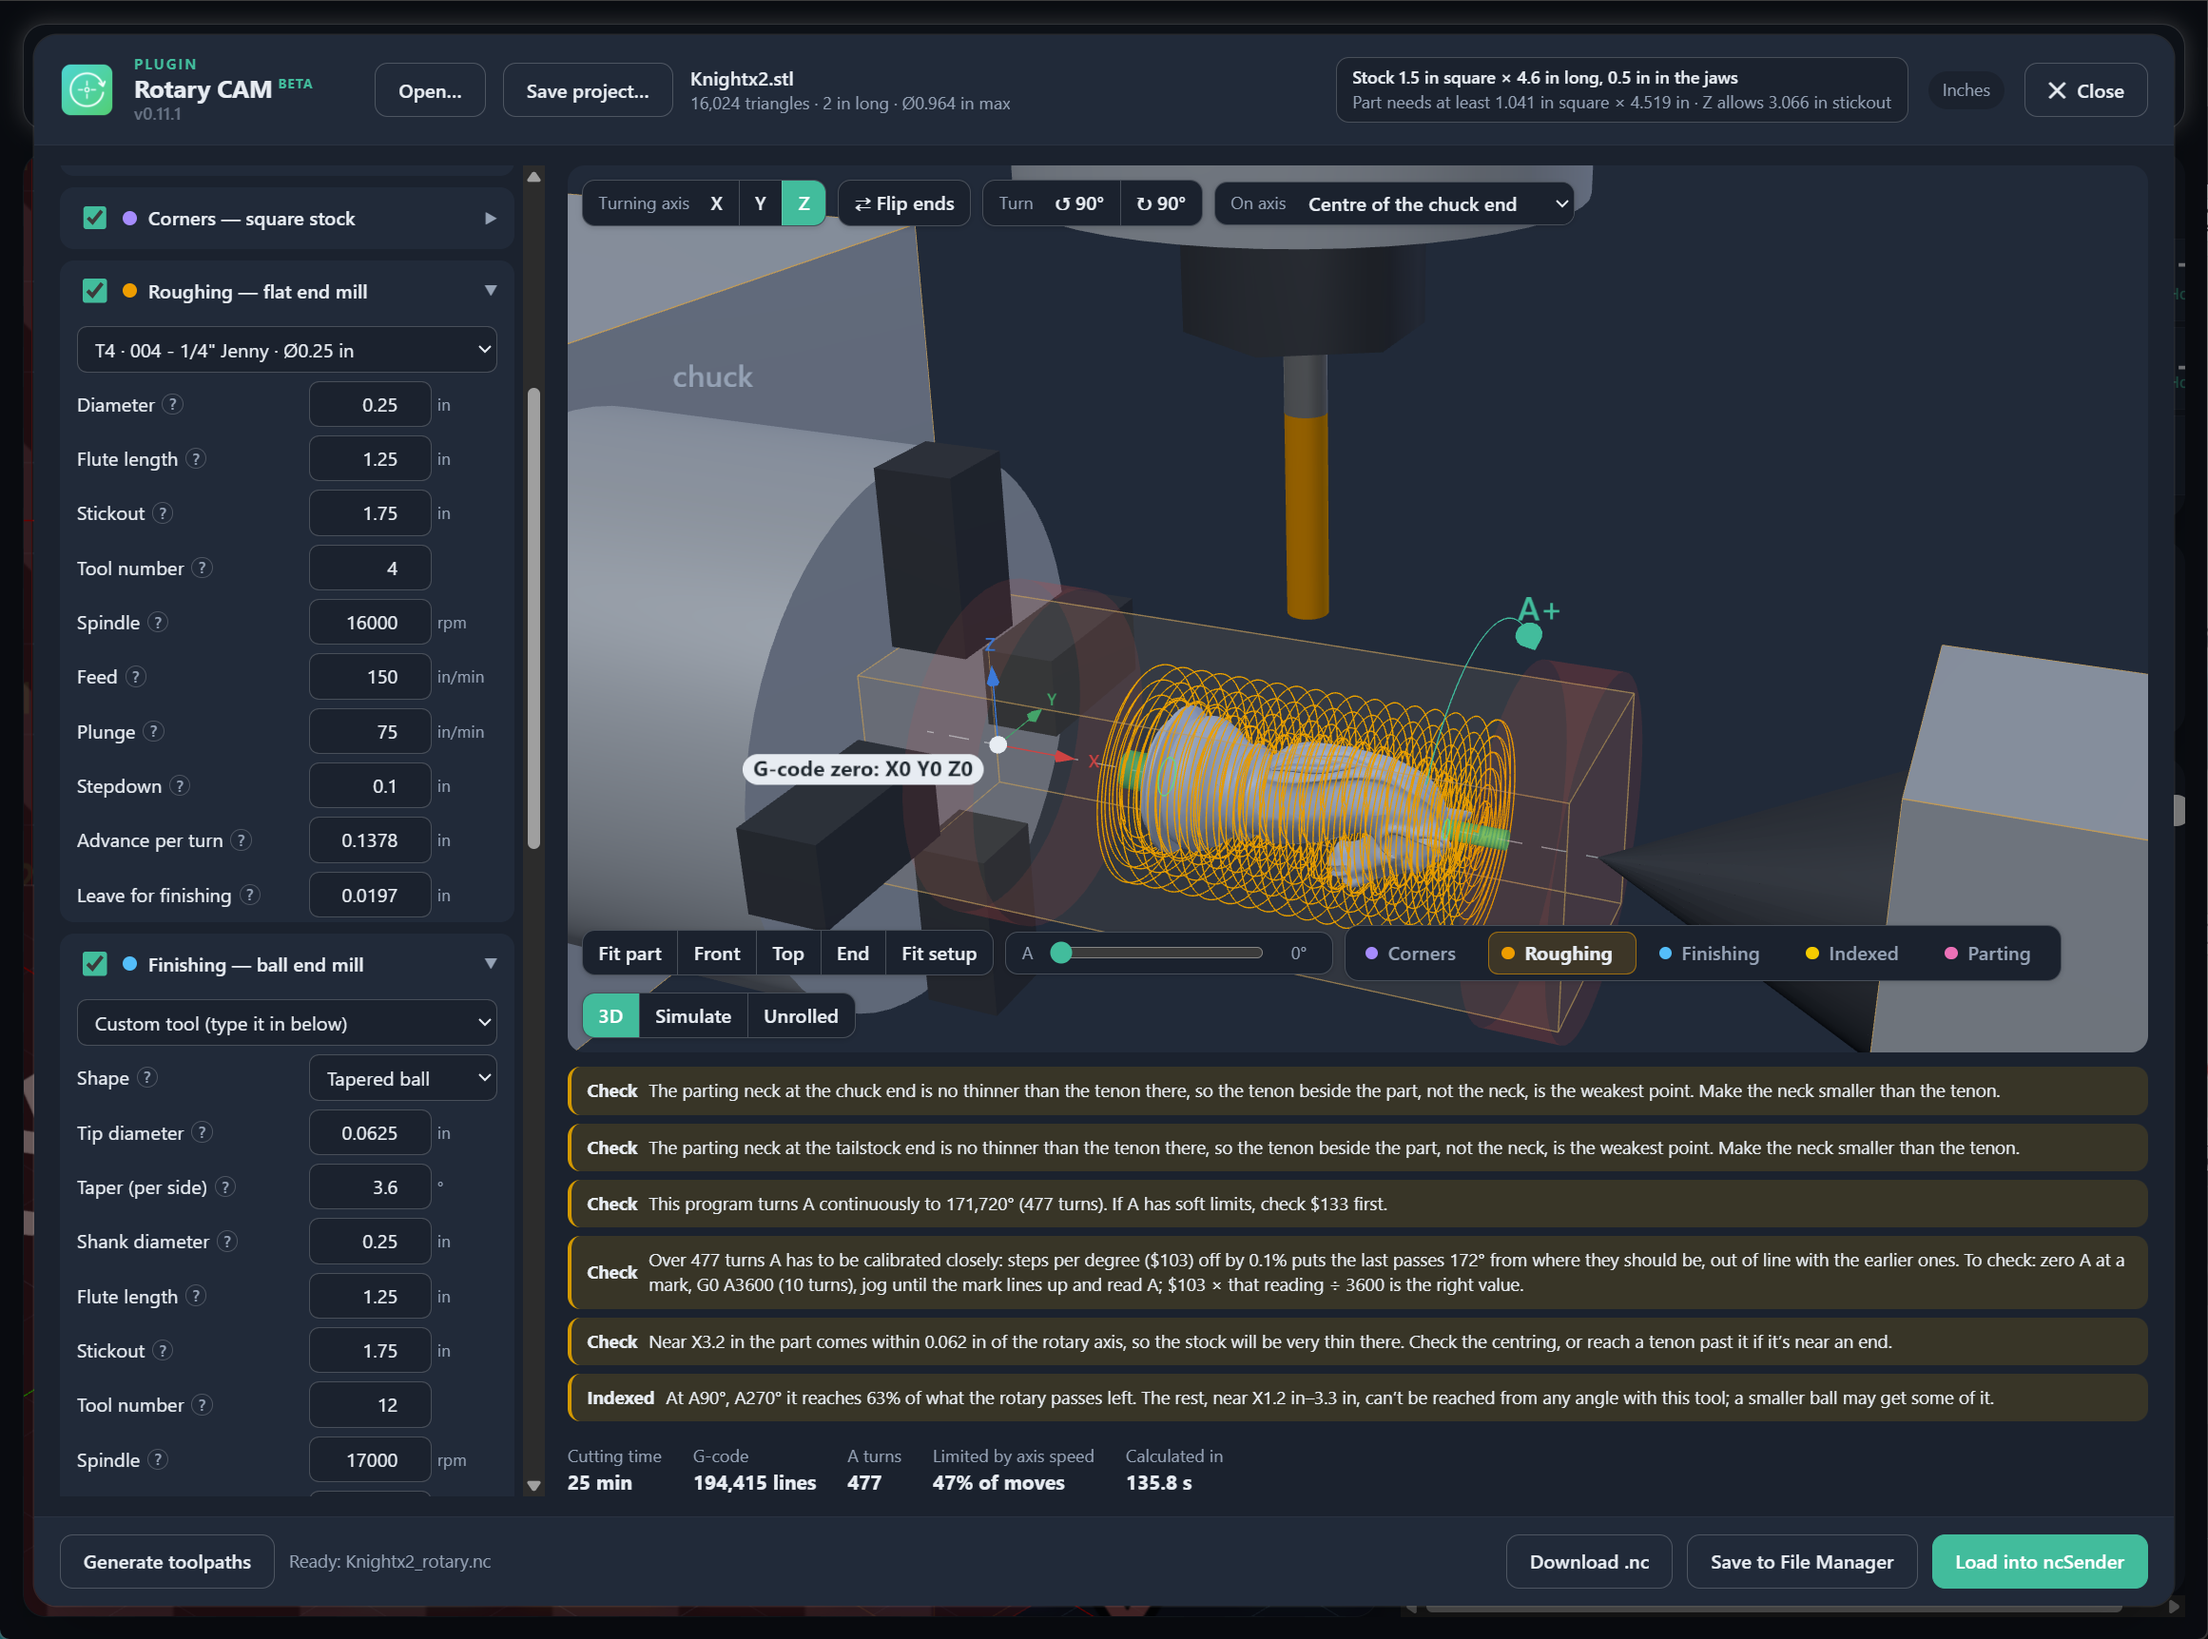
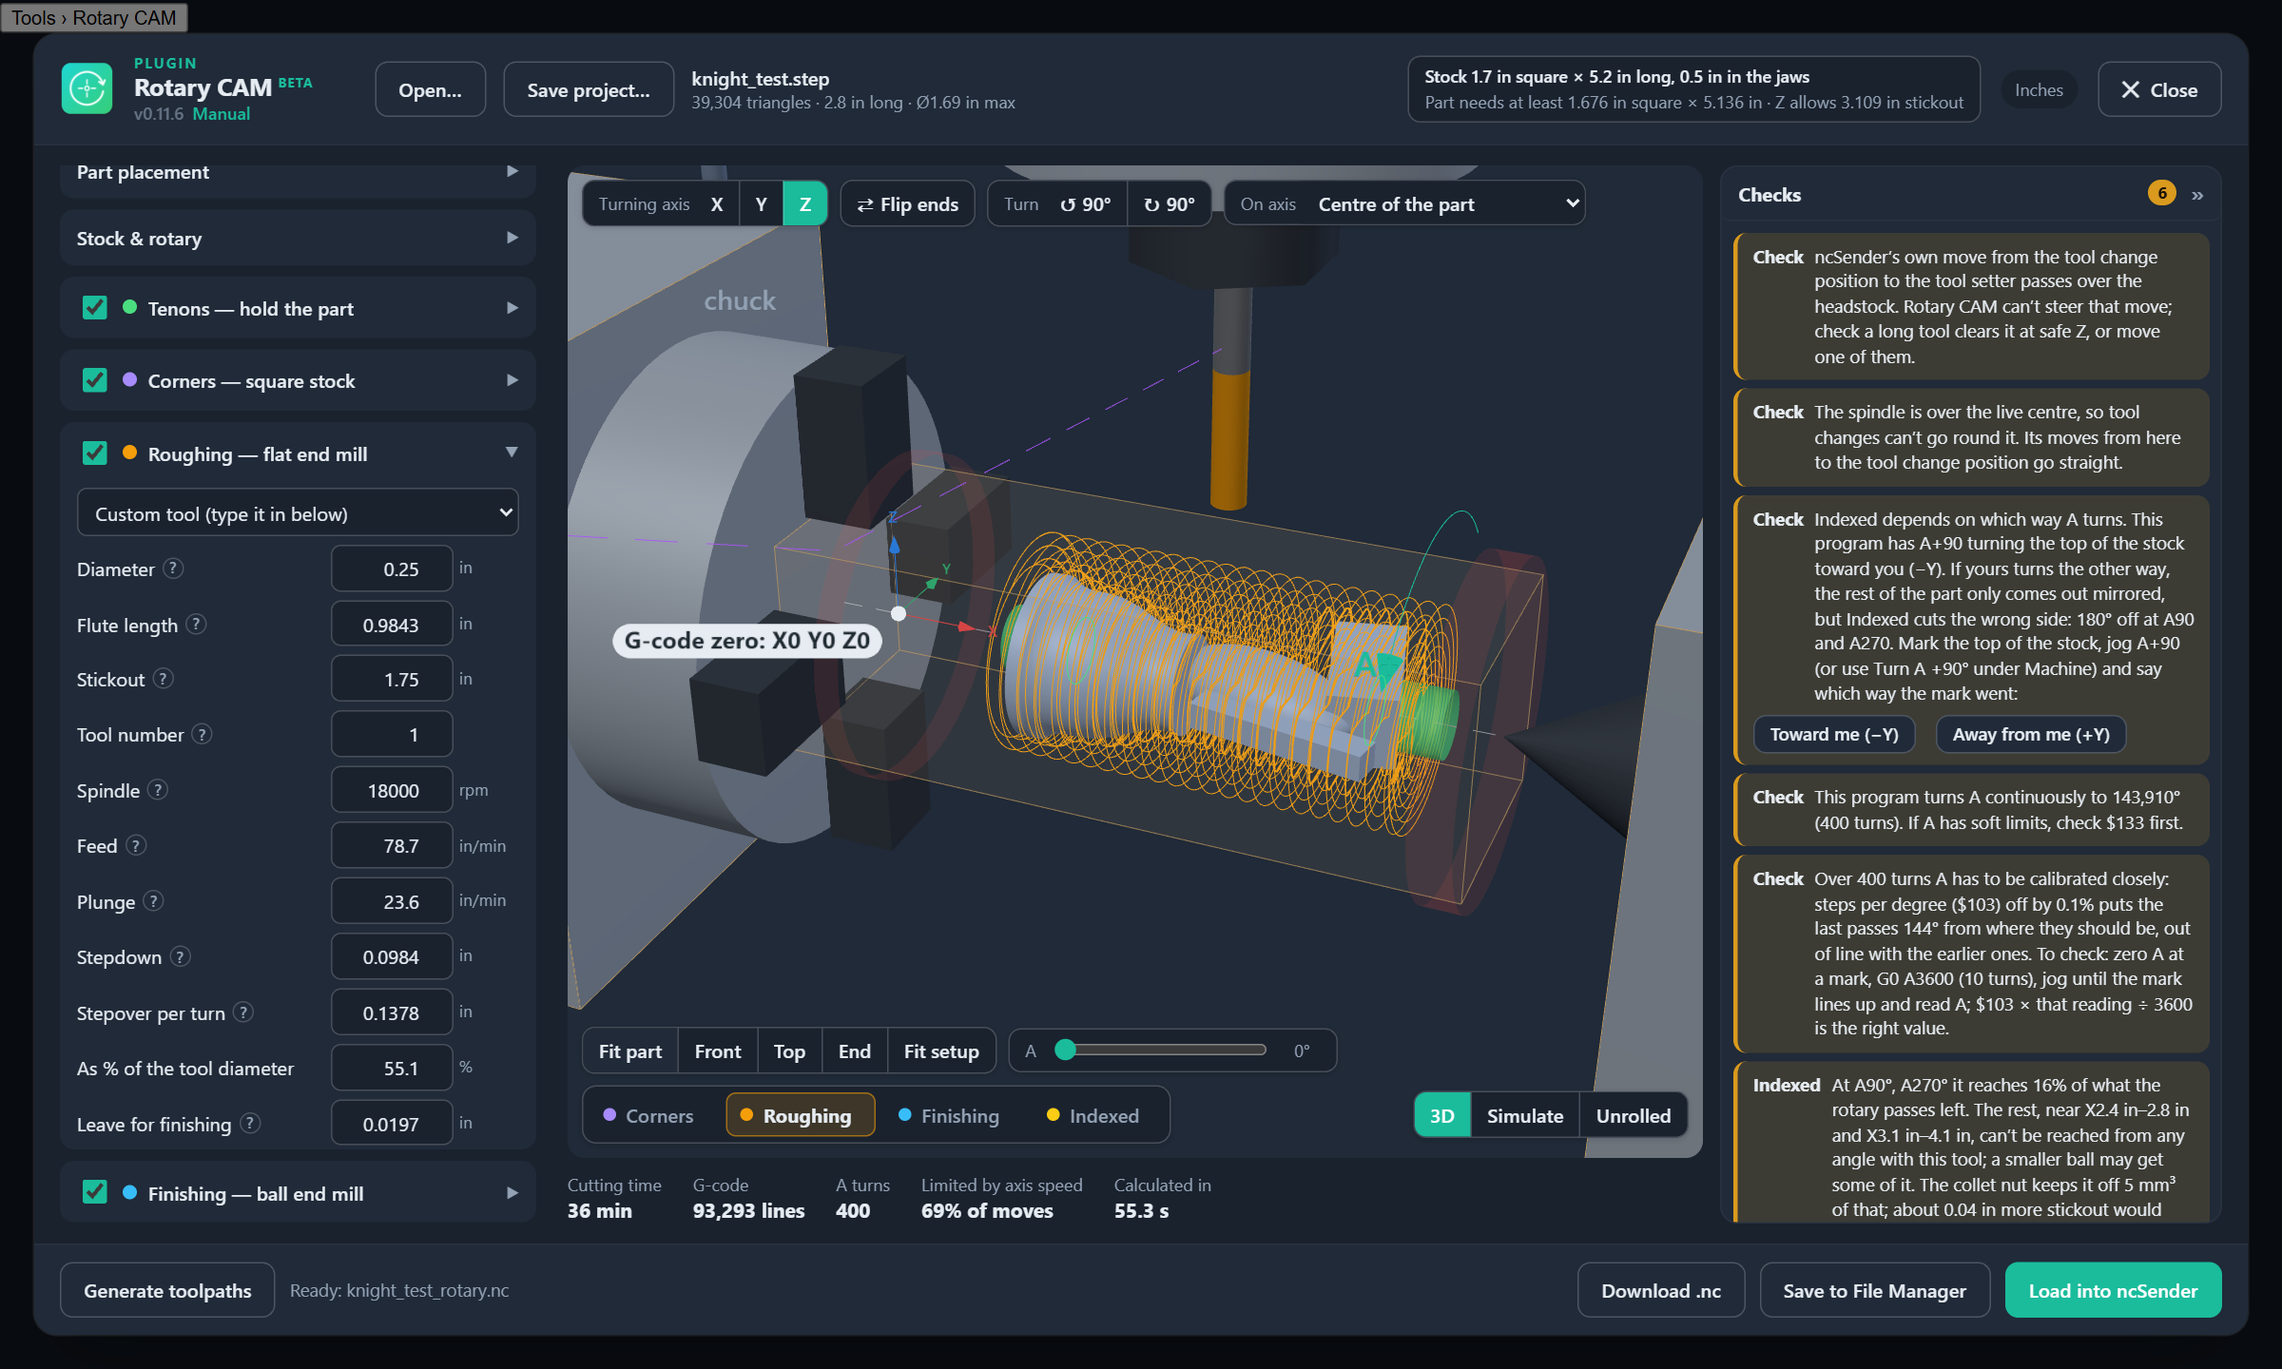
0.11.6: screenshots: the helix past the axis (release notes, README), the knight now
Dark mode, inches: a helix open down the middle, its finishing spiral going through the
middle of the coil past the rotary axis, and the same helix simulated, open all the way
through. In the release notes (the Discord gallery takes them) and the README, whose
knight roughing shot is retaken in today's layout (checks in a column of their own).

diff --git a/latest_release.md b/latest_release.md
@@ -2,6 +2,12 @@
 
 Simultaneous 4th-axis CAM inside ncSender: open an STL or STEP part, rough and finish it around the A axis, clean up what the rotary passes can't reach with indexed passes, simulate it against the stock, and load the G-code straight into ncSender. Install it from ncSender › Settings › Plugins, or with the ZIP below (Install Plugin); updates show there as *Update available*. New to it? Read the [manual](https://github.com/stmoha/ncsender-plugin-rotary-cam/blob/main/MANUAL.md) before the first carve, and air-cut the first program on a new setup.
 
+<p align="center"><img src="https://raw.githubusercontent.com/stmoha/ncsender-plugin-rotary-cam/main/docs/images/helix-finishing.png" width="900" alt="A helix open down the middle in dark mode, its finishing spiral (blue) going through the middle of the coil, past the rotary axis"></p>
+<p align="center"><sub>Finishing goes past the rotary axis to reach the inside of the coil, and the checks say how deep and where.</sub></p>
+
+<p align="center"><img src="https://raw.githubusercontent.com/stmoha/ncsender-plugin-rotary-cam/main/docs/images/helix-simulated.png" width="900" alt="The same helix simulated: the coil comes out clean and open down the middle"></p>
+<p align="center"><sub>Simulate shows it carved: the middle cleared, the coil open all the way through.</sub></p>
+
 **New in 0.11.6**
 - **Cutting past the rotary axis where it's needed.** Roughing and finishing used to keep the tool tip above the axis everywhere, so some spots were never cut: the middle of a slot or hole right through the part (a thin web was left on the axis), the bottom of a hole that goes past the axis, the inside of a curl. Now the tool goes past the axis there, and only there, only as deep as each spot needs; everywhere else nothing changes. **Deepest below the axis** (bottom of *Stock & rotary*) is empty (auto) to start: type a number to limit how deep it goes, or 0 to keep the tool above the axis everywhere. After Generate a message says how deep it goes and where. **Air-cut a program that goes past the axis first**: the tool reaches deep into the part there.
 - **Finishing and Indexed take any end mill.** *Shape* now has **Flat end mill** beside Ball and Tapered ball, and the *Tool* list shows the Tool Library's flat end mills too (picking one sets the shape). A flat end mill leaves flat faces flat and gets into square shoulders and corners; on curves it leaves small steps, so use a fine *Stepover per turn*. Finishing with the roughing end mill (same tool number and size) needs no tool change. Air-cut the first program with a flat finishing tool.

diff --git a/README.md b/README.md
@@ -6,11 +6,17 @@ clean up under overhangs with indexed (3+1) passes, and simulate the program aga
 the stock, then load the G-code straight into ncSender. This is the X/Z/A
 wrapping-around kind of rotary work that Fusion keeps behind the Machining Extension.
 
-![Rotary CAM in ncSender: a knight placed in square stock between the chuck and the tailstock, wrapped in the orange roughing spiral, with the settings on the left and the program checks below](docs/images/knight-roughing.png)
+![Rotary CAM in ncSender: a knight placed in square stock between the chuck and the tailstock, wrapped in the orange roughing spiral, with the settings on the left and the program checks on the right](docs/images/knight-roughing.png)
 
-*A knight in 1½ in square stock: the roughing spiral (orange) wraps the part, the chuck,
-tailstock and spindle are drawn to scale, and below them are the checks Rotary CAM runs
+*A knight in 1.7 in square stock: the roughing spiral (orange) wraps the part, the chuck,
+tailstock and spindle are drawn to scale, and beside them are the checks Rotary CAM runs
 on every program before you cut.*
+
+<p align="center"><img src="docs/images/helix-finishing.png" width="49%" alt="A helix open down the middle, its finishing spiral (blue) going through the middle of the coil, past the rotary axis"> <img src="docs/images/helix-simulated.png" width="49%" alt="The same helix simulated: the coil comes out clean, open down the middle"></p>
+
+*Parts open down the middle: on this helix, roughing and finishing go past the rotary axis
+to clear the inside of the coil (left), and Simulate shows it carved, open all the way
+through (right).*
 
 **New to it? Start with [MANUAL.md](MANUAL.md):** setting up the controller and the rotary, and what to check before the first carve.
 
